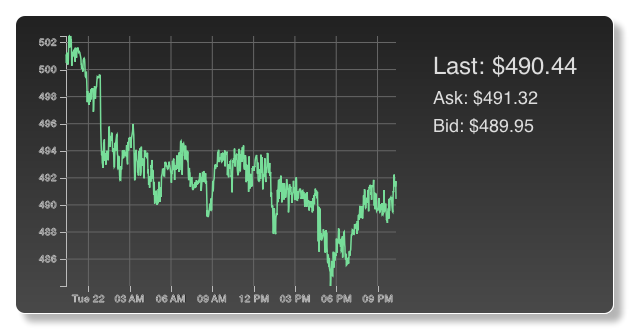
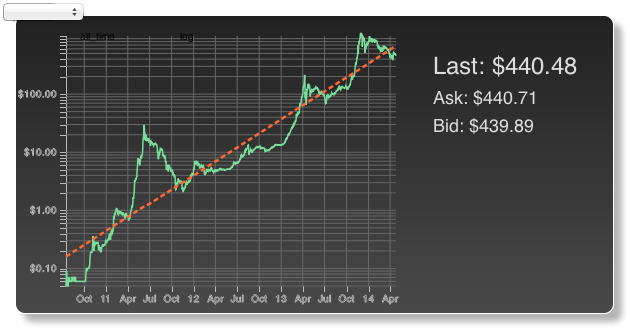
mode and range select controls

diff --git a/source/index.html b/source/index.html
@@ -14,7 +14,14 @@
 
   <div id="container">
 
-    <button id="mode-button" onclick="modeClicked()">MODE</button>
+    <select id="mode-select" onchange="modeChanged(this)">
+      <option value="log">log</option>
+      <option value="linear">linear</option>
+    </select>
+    <select id="range-select" onchange="rangeChanged(this)">
+      <option value="all_time">all_time</option>
+      <option value="24h_sliding">24h_sliding</option>
+    </select>
 
     <div id="readout"></div>
 

diff --git a/source/styles.css b/source/styles.css
@@ -33,11 +33,17 @@ body {
   height: 297px;
 }
 
-#mode-button {
+#range-select {
   -apple-dashboard-region: dashboard-region(control rectangle 4px 4px 4px 4px);
   position: absolute;
-  top: 20px;
+  top: 10px;
   left: 60px;
+}
+#mode-select {
+  -apple-dashboard-region: dashboard-region(control rectangle 4px 4px 4px 4px);
+  position: absolute;
+  top: 10px;
+  left: 160px;
 }
 
 text {

diff --git a/source/scripts/rates.js b/source/scripts/rates.js
@@ -97,12 +97,13 @@ function init() {
   update();
 }
 
-var modes = ['log', 'linear'];
-var currentMode = 0;
-function modeClicked() {
-  console.log('mode now = '+mode);
-  currentMode = (currentMode + 1) % modes.length;
-  mode = modes[currentMode];
+
+function modeChanged(e) {
+  mode = e.value;
+  updateGraph();
+}
+function rangeChanged(e) {
+  range = e.value;
   updateGraph();
 }
 
